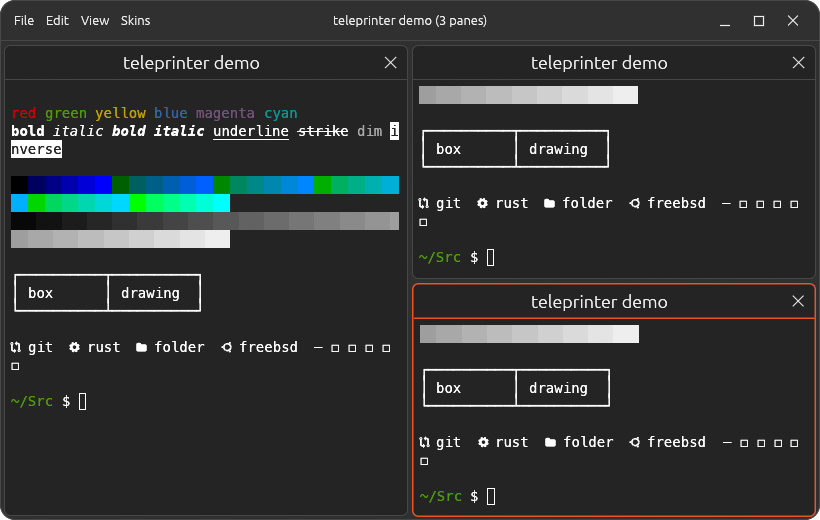
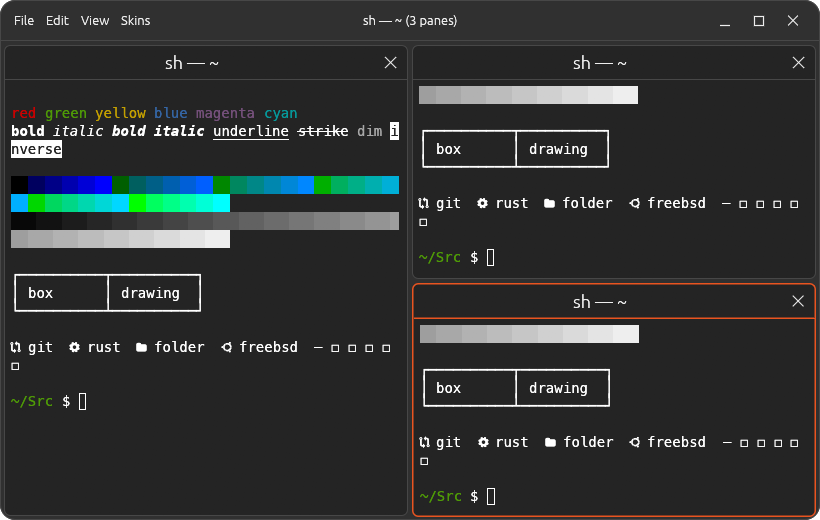
Title panes after their foreground program, as tmux does
A pane's title is the pty's foreground process and its directory
(vim — ~/Src/teleprinter), read from /proc when output arrives, with a
second look 200 ms later for programs that start silently. Falls back to
the shell's OSC title where /proc can't be read. ADR-0006.

Claude-Session: https://claude.ai/code/session_01W724yxZJ1pCP6wqmY5NdsJ

diff --git a/src/session.rs b/src/session.rs
@@ -8,6 +8,7 @@ use std::borrow::Cow;
 use std::collections::HashMap;
 use std::sync::Arc;
 use std::sync::mpsc::{self, Receiver, Sender};
+use std::time::{Duration, Instant};
 
 use alacritty_terminal::event::{Event, EventListener, WindowSize};
 use alacritty_terminal::event_loop::{EventLoop, EventLoopSender, Msg};
@@ -60,7 +61,24 @@ pub struct Session {
     pub exited: bool,
     /// The shell's process, for finding its working directory.
     pid: u32,
+    /// The pty, to ask which process group is in the foreground.
+    tty: Option<std::fs::File>,
+    /// What runs in the foreground, for the pane's title (as tmux names windows).
+    pub foreground: Option<Foreground>,
+    last_probe: Option<Instant>,
+    /// A second look due after output, for programs that start without writing.
+    probe_again: Option<Instant>,
 }
+
+/// The program in the foreground of a pane, and its directory.
+#[derive(Clone, Debug, PartialEq)]
+pub struct Foreground {
+    pub name: String,
+    pub cwd: Option<std::path::PathBuf>,
+}
+
+/// How often output may trigger another look at the foreground process.
+const PROBE_INTERVAL: Duration = Duration::from_millis(200);
 
 impl Session {
     /// Starts `command` (the user's login shell when `None`) in `cwd`.
@@ -79,6 +97,7 @@ impl Session {
         };
         let pty = tty::new(&options, window_size, 0)?;
         let pid = pty.child().id();
+        let tty = pty.file().try_clone().ok();
         let (tx, events) = mpsc::channel();
         let listener = Listener { events: tx, ctx: ctx.clone() };
         let size = GridSize { columns: window_size.num_cols as usize, lines: window_size.num_lines as usize };
@@ -86,7 +105,7 @@ impl Session {
         let event_loop = EventLoop::new(term.clone(), listener, pty, true, false)?;
         let sender = event_loop.channel();
         event_loop.spawn();
-        Ok(Self { term, sender, events, window_size, title: None, exited: false, pid })
+        Ok(Self { term, sender, events, window_size, title: None, exited: false, pid, tty, foreground: None, last_probe: None, probe_again: None })
     }
 
     /// The shell's current directory, where a split from this pane starts.
@@ -128,7 +147,9 @@ impl Session {
 
     /// Handles what the event loop sent since the last frame.
     pub fn pump(&mut self, ctx: &egui::Context, palette: &Palette) {
+        let mut output = false;
         while let Ok(event) = self.events.try_recv() {
+            output |= matches!(event, Event::Wakeup);
             match event {
                 Event::Title(title) => self.title = Some(title),
                 Event::ResetTitle => self.title = None,
@@ -146,11 +167,87 @@ impl Session {
                 Event::Bell | Event::Wakeup | Event::MouseCursorDirty | Event::CursorBlinkingChange => {}
             }
         }
+        // There's no event for a new foreground program, so output is the cue to look:
+        // a program nearly always writes (vim drawing, the prompt coming back). One that
+        // starts silently, like `sleep`, only follows the echo of Enter, so every burst of
+        // output also gets a second look once things settle.
+        let now = Instant::now();
+        let ready = self.last_probe.is_none_or(|at| now - at >= PROBE_INTERVAL);
+        if output {
+            self.probe_again = Some(now + PROBE_INTERVAL);
+        }
+        if (output && ready) || self.last_probe.is_none() || self.probe_again.is_some_and(|at| now >= at) {
+            self.last_probe = Some(now);
+            if !output {
+                self.probe_again = None;
+            }
+            self.foreground = self.probe();
+        }
+        if let Some(at) = self.probe_again {
+            ctx.request_repaint_after(at.saturating_duration_since(now));
+        }
+    }
+
+    /// The pty's foreground process group leader: its name and directory.
+    /// Read from /proc, so on Linux only; elsewhere `None`, and the title
+    /// falls back to the one the shell sets.
+    fn probe(&self) -> Option<Foreground> {
+        use std::os::fd::AsRawFd;
+        let fd = self.tty.as_ref()?.as_raw_fd();
+        // SAFETY: tcgetpgrp only reads the terminal's state; fd stays open for the call.
+        let group = unsafe { libc::tcgetpgrp(fd) };
+        if group <= 0 {
+            return None;
+        }
+        let name = std::fs::read_to_string(format!("/proc/{group}/comm")).ok()?.trim().to_string();
+        let cwd = std::fs::read_link(format!("/proc/{group}/cwd")).ok();
+        Some(Foreground { name, cwd })
+    }
+
+    /// The pane's title: the foreground program and where it is, as
+    /// `vim — ~/Src/teleprinter`; the shell's own title where that can't be
+    /// read; else "Shell".
+    pub fn label(&self) -> String {
+        match (&self.foreground, &self.title) {
+            (Some(fg), _) => title(fg, dirs::home_dir().as_deref()),
+            (None, Some(title)) => title.clone(),
+            (None, None) => "Shell".into(),
+        }
     }
 }
 
 impl Drop for Session {
     fn drop(&mut self) {
         let _ = self.sender.send(Msg::Shutdown);
+    }
+}
+
+/// `name — dir`, with the home directory as `~`.
+pub fn title(fg: &Foreground, home: Option<&std::path::Path>) -> String {
+    let Some(cwd) = &fg.cwd else { return fg.name.clone() };
+    let dir = match home.and_then(|h| cwd.strip_prefix(h).ok()) {
+        Some(rest) if rest.as_os_str().is_empty() => "~".to_string(),
+        Some(rest) => format!("~/{}", rest.display()),
+        None => cwd.display().to_string(),
+    };
+    format!("{} — {dir}", fg.name)
+}
+
+#[cfg(test)]
+mod tests {
+    use super::*;
+    use std::path::{Path, PathBuf};
+
+    fn fg(name: &str, cwd: Option<&str>) -> Foreground {
+        Foreground { name: name.into(), cwd: cwd.map(PathBuf::from) }
+    }
+
+    #[test]
+    fn titles_name_the_program_and_its_directory() {
+        let home = Some(Path::new("/home/me"));
+        assert_eq!(title(&fg("vim", Some("/home/me/src/x")), home), "vim — ~/src/x");
+        assert_eq!(title(&fg("zsh", Some("/home/me")), home), "zsh — ~");
+        assert_eq!(title(&fg("htop", Some("/etc")), home), "htop — /etc");
+        assert_eq!(title(&fg("ssh", None), home), "ssh");
     }
 }

diff --git a/src/app.rs b/src/app.rs
@@ -156,7 +156,7 @@ impl App {
 
     fn title(&self, id: PaneId) -> String {
         match self.panes.get(&id).map(|p| &p.session) {
-            Some(Ok(session)) => session.title.clone().unwrap_or_else(|| "Shell".into()),
+            Some(Ok(session)) => session.label(),
             _ => "Shell".into(),
         }
     }

diff --git a/docs/adr/0006-pane-titles-from-the-foreground-process.md b/docs/adr/0006-pane-titles-from-the-foreground-process.md
@@ -1,0 +1,41 @@
+# 0006. Pane titles follow the foreground program, as tmux names windows
+
+Date: 2026-10-11
+
+## Status
+
+Accepted
+
+## Context
+
+Pane titles came from the title a shell sets with OSC 0/2, so a shell that sets none showed
+"Shell" in every pane, and nothing said which pane had vim and which had a build running. The user
+asked for titles that change with what's in the pane, as tmux does: its automatic window names are
+the foreground program (`vim`, `htop`, back to `zsh`).
+
+There's no event for a new foreground program. tmux re-checks on a timer (`status-interval`); the
+user prefers event-driven updates over polling.
+
+## Decision
+
+- **A pane's title is `program — directory`**, e.g. `vim — ~/Src/teleprinter`, with the home
+  directory shortened to `~`. The program is the pty's foreground process group
+  (`tcgetpgrp` on a duplicate of the pty's fd), and its name and directory come from
+  `/proc/<pid>/comm` and `/proc/<pid>/cwd`.
+- **Output is the cue to look again,** at most every 200 ms: a new program nearly always writes
+  something (vim drawing, the prompt coming back). Each burst of output also gets one more look
+  200 ms later, so a program that starts silently right after Enter's echo (`sleep`, a quiet build)
+  is still caught. An idle pane does no work.
+- **Where /proc can't be read** (FreeBSD without linprocfs, macOS) the title falls back to the
+  shell's OSC title, then "Shell".
+- The window title is the active pane's title.
+
+## Consequences
+
+- Panes say what's running and where, whatever the shell's configuration.
+- A program that starts more than 200 ms after the last output and never writes keeps the old
+  title until something does.
+- An OSC title a program sets (vim's file name, a remote shell's `user@host`) is no longer shown
+  on Linux; `ssh` shows as `ssh — <local dir>`. Showing the OSC title when the foreground isn't
+  the shell is the obvious next step if that's missed.
+- FreeBSD support needs its own lookup (`sysctl kern.proc.pid`) to get the same titles.

diff --git a/docs/adr/README.md b/docs/adr/README.md
@@ -47,6 +47,7 @@ mechanics of adding one.
 | [0003](0003-terminal-colours-come-from-the-skin.md) | Terminal colours come from the skin | Proposed |
 | [0004](0004-ctrl-shift-for-the-clipboard.md) | Ctrl+Shift+C/V for the clipboard; Ctrl+C stays an interrupt | Proposed |
 | [0005](0005-tiled-panes-as-pinned-windows.md) | Split into tiled panes, each a pinned window, swapped by dragging | Accepted |
+| [0006](0006-pane-titles-from-the-foreground-process.md) | Pane titles follow the foreground program, as tmux names windows | Accepted |
 
 ## Decision Relationship
 
@@ -56,6 +57,7 @@ flowchart TD
     A --> C[0003: colours from the skin]
     A --> D[0004: Ctrl+Shift clipboard]
     A --> E[0005: tiled panes as pinned windows]
+    E --> F[0006: titles from the foreground program]
 ```
 
 ## Revisit Triggers

diff --git a/CLAUDE.md b/CLAUDE.md
@@ -23,7 +23,8 @@ and quits, `TELEPRINTER_SPLITS=right,down` splits at start. Check visual changes
 ## Layout
 
 - `src/session.rs`: the pty and alacritty_terminal's event loop; input, paste, resize, events
-  (title, clipboard store, colour queries, child exit). Each event requests a repaint.
+  (title, clipboard store, colour queries, child exit). Each event requests a repaint. Pane
+  titles: the pty's foreground process from /proc, re-read on output (ADR-0006).
 - `src/view.rs`: the widget: cell metrics, painting, key → bytes (`key_bytes`), mouse selection,
   wheel scrolling.
 - `src/palette.rs`: ANSI palette from the skin's `[app.teleprinter]`, else from the visuals

diff --git a/README.md b/README.md
@@ -8,7 +8,8 @@ MesloLGS NF as the font.
 ![Teleprinter in the Notebook skin](docs/screenshot-notebook.png)
 
 Right-click a terminal to **Split Right** or **Split Down**. Panes tile the window, each in a
-window of its own with the shell's title. Drag a pane's title bar onto another to swap them, and
+window of its own titled with what's running in it and where, as tmux names its windows
+(`vim — ~/Src/teleprinter`, back to `zsh — ~/Src/teleprinter` when vim exits). Drag a pane's title bar onto another to swap them, and
 drag the gap between panes to resize.
 
 ![Three panes in the Dark Orange skin](docs/screenshot-split-dark-orange.png)
